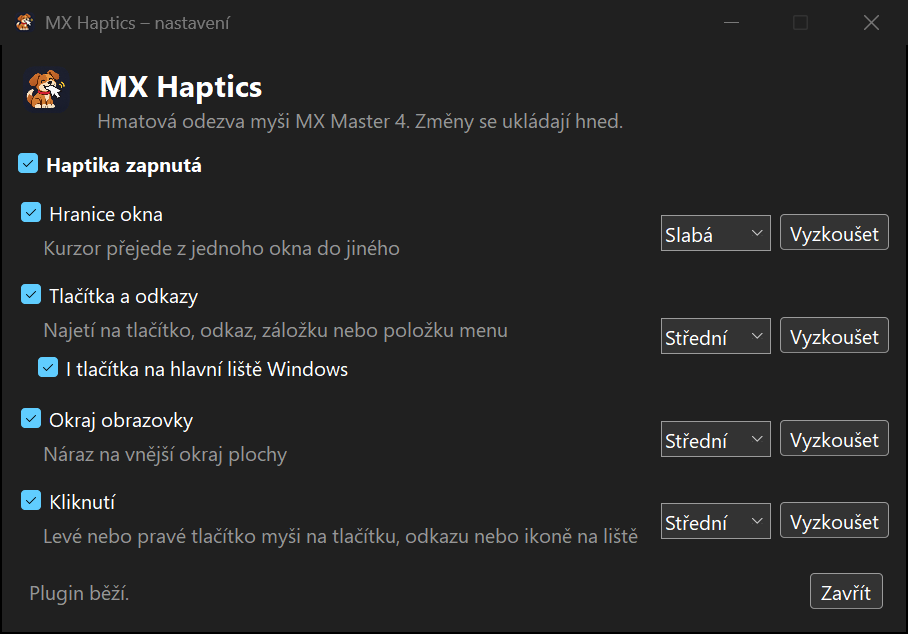
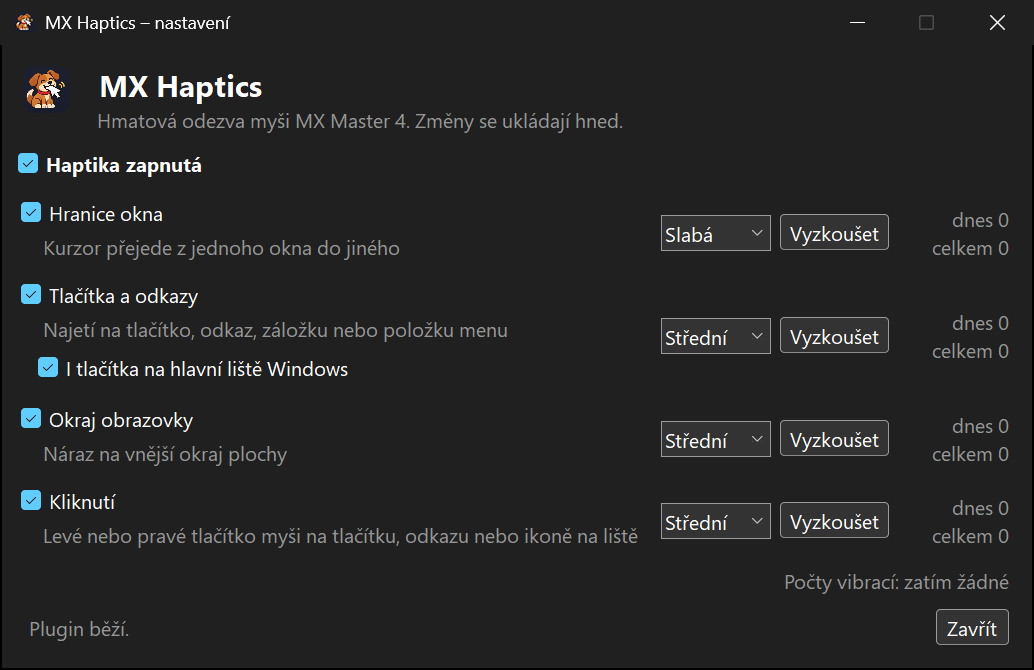
Statistika: počty vibrací dnes a celkem u každé reakce, verze 0.5.0

diff --git a/settings/SettingsForm.cs b/settings/SettingsForm.cs
@@ -3,7 +3,9 @@ namespace MxHaptics.Settings
     using System;
     using System.Collections.Generic;
     using System.Drawing;
+    using System.Globalization;
     using System.IO;
+    using System.Threading.Tasks;
     using System.Windows.Forms;
 
     using MxHaptics.Shared;
@@ -26,7 +28,10 @@ namespace MxHaptics.Settings
         private readonly CheckBox _taskbarCheck;
         private readonly List<Control> _rowControls = new();
         private readonly Label _status;
+        private readonly Dictionary<String, Label> _countLabels = new();
+        private readonly Label _statsSince;
         private Boolean _loading = true;
+        private Boolean _refreshingStats;
 
         /// <param name="readOnly">Pro screenshoty: výchozí nastavení, nic neukládá ani neposílá pluginu.</param>
         public SettingsForm(Boolean readOnly = false)
@@ -91,7 +96,8 @@ namespace MxHaptics.Settings
             root.Controls.Add(this._masterSwitch);
 
             // --- reakce ---
-            var grid = new TableLayoutPanel { AutoSize = true, ColumnCount = 3, Margin = new Padding(0, 0, 0, 8) };
+            var grid = new TableLayoutPanel { AutoSize = true, ColumnCount = 4, Margin = new Padding(0, 0, 0, 8) };
+            grid.ColumnStyles.Add(new ColumnStyle(SizeType.AutoSize));
             grid.ColumnStyles.Add(new ColumnStyle(SizeType.AutoSize));
             grid.ColumnStyles.Add(new ColumnStyle(SizeType.AutoSize));
             grid.ColumnStyles.Add(new ColumnStyle(SizeType.AutoSize));
@@ -146,12 +152,28 @@ namespace MxHaptics.Settings
                 grid.Controls.Add(cell);
                 grid.Controls.Add(strength);
                 grid.Controls.Add(test);
+
+                var count = new Label
+                {
+                    AutoSize = true,
+                    MinimumSize = new Size(110, 0),
+                    TextAlign = ContentAlignment.TopRight,
+                    ForeColor = SystemColors.GrayText,
+                    Anchor = AnchorStyles.Right,
+                    Margin = new Padding(16, 6, 0, 0),
+                };
+                grid.Controls.Add(count);
+                this._countLabels[reaction] = count;
+
                 this._rowControls.Add(enabled);
                 this._rowControls.Add(strength);
                 this._rowControls.Add(test);
             }
 
             root.Controls.Add(grid);
+
+            this._statsSince = new Label { AutoSize = true, ForeColor = SystemColors.GrayText, Anchor = AnchorStyles.Right, Margin = new Padding(0, 0, 0, 8) };
+            root.Controls.Add(this._statsSince);
 
             // --- patička ---
             var footer = new TableLayoutPanel { AutoSize = true, ColumnCount = 2, Dock = DockStyle.Fill };
@@ -169,6 +191,59 @@ namespace MxHaptics.Settings
             this.UpdateEnabledState();
             this.UpdateStatus(readOnly || PluginClient.Send("reload") != null ? "Plugin běží." : null);
             this._loading = readOnly;
+
+            if (readOnly)
+            {
+                this.ShowStats(new HapticsStats());
+            }
+            else
+            {
+                this.RefreshStats();
+                var timer = new Timer { Interval = 2000 };
+                timer.Tick += (_, _) => this.RefreshStats();
+                timer.Start();
+                this.FormClosed += (_, _) => timer.Dispose();
+            }
+        }
+
+        /// <summary>Počty z běžícího pluginu (aktuální), jinak z uloženého souboru (plugin ukládá jednou za minutu).</summary>
+        private async void RefreshStats()
+        {
+            if (this._refreshingStats)
+            {
+                return;
+            }
+
+            this._refreshingStats = true;
+            try
+            {
+                var stats = await Task.Run(() =>
+                {
+                    var json = PluginClient.Send("stats");
+                    return json != null && json.StartsWith('{') ? HapticsStats.FromJson(json) : HapticsStats.Load();
+                });
+                if (!this.IsDisposed)
+                {
+                    this.ShowStats(stats);
+                }
+            }
+            finally
+            {
+                this._refreshingStats = false;
+            }
+        }
+
+        private void ShowStats(HapticsStats stats)
+        {
+            var today = DateTime.Now;
+            foreach (var (reaction, label) in this._countLabels)
+            {
+                label.Text = $"dnes {stats.DayOf(reaction, today):N0}\ncelkem {stats.TotalOf(reaction):N0}";
+            }
+
+            this._statsSince.Text = DateTime.TryParseExact(stats.Since, "yyyy-MM-dd", CultureInfo.InvariantCulture, DateTimeStyles.None, out var since)
+                ? $"Počty vibrací od {since:d}"
+                : "Počty vibrací: zatím žádné";
         }
 
         private static Image LoadIconImage()

diff --git a/shared/HapticsStats.cs b/shared/HapticsStats.cs
@@ -1,0 +1,92 @@
+namespace MxHaptics.Shared
+{
+    using System;
+    using System.Collections.Generic;
+    using System.IO;
+    using System.Text.Json;
+
+    /// <summary>
+    /// Počty skutečně odeslaných vibrací podle reakce: celkem a po dnech (místní datum).
+    /// Testy z okna nastavení se nepočítají. Uložené v %LOCALAPPDATA%\MxHaptics\stats.json, zapisuje jen plugin.
+    /// Není thread-safe, plugin k ní přistupuje pod zámkem.
+    /// </summary>
+    public sealed class HapticsStats
+    {
+        private static readonly JsonSerializerOptions JsonOptions = new() { PropertyNamingPolicy = JsonNamingPolicy.CamelCase };
+
+        /// <summary>Den prvního záznamu (yyyy-MM-dd).</summary>
+        public String Since { get; set; }
+
+        public Dictionary<String, Int64> Total { get; set; } = new();
+
+        /// <summary>Den (yyyy-MM-dd) → reakce → počet.</summary>
+        public Dictionary<String, Dictionary<String, Int64>> Days { get; set; } = new();
+
+        public static String FilePath => Path.Combine(HapticsSettings.DirectoryPath, "stats.json");
+
+        public static String DayKey(DateTime day) => day.ToString("yyyy-MM-dd", System.Globalization.CultureInfo.InvariantCulture);
+
+        public void Add(String reaction, DateTime now)
+        {
+            var day = DayKey(now);
+            this.Since ??= day;
+            this.Total[reaction] = this.TotalOf(reaction) + 1;
+            if (!this.Days.TryGetValue(day, out var counts))
+            {
+                this.Days[day] = counts = new Dictionary<String, Int64>();
+            }
+
+            counts[reaction] = counts.GetValueOrDefault(reaction) + 1;
+        }
+
+        public Int64 TotalOf(String reaction) => this.Total.GetValueOrDefault(reaction);
+
+        public Int64 DayOf(String reaction, DateTime day) =>
+            this.Days.TryGetValue(DayKey(day), out var counts) ? counts.GetValueOrDefault(reaction) : 0;
+
+        public String ToJson() => JsonSerializer.Serialize(this, JsonOptions);
+
+        /// <summary>Při prázdném nebo poškozeném vstupu vrátí prázdnou statistiku.</summary>
+        public static HapticsStats FromJson(String json)
+        {
+            try
+            {
+                var stats = String.IsNullOrWhiteSpace(json) ? null : JsonSerializer.Deserialize<HapticsStats>(json, JsonOptions);
+                if (stats != null)
+                {
+                    stats.Total ??= new();
+                    stats.Days ??= new();
+                    return stats;
+                }
+            }
+            catch (JsonException ex)
+            {
+                System.Diagnostics.Trace.WriteLine($"MxHaptics: statistika nejde přečíst: {ex.Message}");
+            }
+
+            return new HapticsStats();
+        }
+
+        public static HapticsStats Load()
+        {
+            try
+            {
+                return FromJson(File.Exists(FilePath) ? File.ReadAllText(FilePath) : null);
+            }
+            catch (Exception ex) when (ex is IOException or UnauthorizedAccessException)
+            {
+                System.Diagnostics.Trace.WriteLine($"MxHaptics: statistika nejde načíst: {ex.Message}");
+                return new HapticsStats();
+            }
+        }
+
+        /// <summary>Uloží atomicky (zápis do dočasného souboru a přejmenování).</summary>
+        public void Save()
+        {
+            Directory.CreateDirectory(HapticsSettings.DirectoryPath);
+            var tmp = FilePath + ".tmp";
+            File.WriteAllText(tmp, this.ToJson());
+            File.Move(tmp, FilePath, overwrite: true);
+        }
+    }
+}

diff --git a/src/MxHapticsPlugin.cs b/src/MxHapticsPlugin.cs
@@ -11,6 +11,10 @@ namespace Loupedeck.MxHapticsPlugin
         private PointerWatcher _watcher;
         private ControlPipeServer _pipe;
         private volatile HapticsSettings _settings = new();
+        private readonly Object _statsLock = new();
+        private HapticsStats _stats = new();
+        private Boolean _statsDirty;
+        private System.Threading.Timer _statsTimer;
 
         public override Boolean UsesApplicationApiOnly => true;
 
@@ -27,6 +31,12 @@ namespace Loupedeck.MxHapticsPlugin
         public override void Load()
         {
             this.ReloadSettings();
+            lock (this._statsLock)
+            {
+                this._stats = HapticsStats.Load();
+            }
+
+            this._statsTimer = new System.Threading.Timer(_ => this.SaveStats(), null, 60_000, 60_000);
 
             this._watcher = new PointerWatcher(this.RaiseReaction, () => this._settings.TaskbarButtons);
             this._watcher.Start();
@@ -41,6 +51,9 @@ namespace Loupedeck.MxHapticsPlugin
             this._pipe = null;
             this._watcher?.Dispose();
             this._watcher = null;
+            this._statsTimer?.Dispose();
+            this._statsTimer = null;
+            this.SaveStats();
         }
 
         public void ReloadSettings() => this._settings = HapticsSettings.Load();
@@ -77,6 +90,39 @@ namespace Loupedeck.MxHapticsPlugin
             if (reactionSettings.Enabled)
             {
                 this.RaiseEvent(Reactions.EventName(reaction, reactionSettings.Strength));
+                lock (this._statsLock)
+                {
+                    this._stats.Add(reaction, DateTime.Now);
+                    this._statsDirty = true;
+                }
+            }
+        }
+
+        private void SaveStats()
+        {
+            String json;
+            lock (this._statsLock)
+            {
+                if (!this._statsDirty)
+                {
+                    return;
+                }
+
+                json = this._stats.ToJson();
+                this._statsDirty = false;
+            }
+
+            try
+            {
+                HapticsStats.FromJson(json).Save();
+            }
+            catch (Exception ex) when (ex is IOException or UnauthorizedAccessException)
+            {
+                Trace.WriteLine($"MxHaptics: statistiku nejde uložit: {ex.Message}");
+                lock (this._statsLock)
+                {
+                    this._statsDirty = true;
+                }
             }
         }
 
@@ -92,7 +138,7 @@ namespace Loupedeck.MxHapticsPlugin
             }
         }
 
-        /// <summary>Příkazy z okna nastavení: <c>reload</c>, <c>test &lt;reakce&gt; &lt;síla&gt;</c>.</summary>
+        /// <summary>Příkazy z okna nastavení: <c>reload</c>, <c>stats</c>, <c>test &lt;reakce&gt; &lt;síla&gt;</c>.</summary>
         private String HandleCommand(String line)
         {
             var parts = line.Split(' ', StringSplitOptions.RemoveEmptyEntries);
@@ -100,6 +146,14 @@ namespace Loupedeck.MxHapticsPlugin
             {
                 this.ReloadSettings();
                 return "ok";
+            }
+
+            if (parts.Length == 1 && parts[0] == "stats")
+            {
+                lock (this._statsLock)
+                {
+                    return this._stats.ToJson();
+                }
             }
 
             if (parts.Length == 3 && parts[0] == "test"

diff --git a/AGENTS.md b/AGENTS.md
@@ -10,7 +10,8 @@ Logi Plugin Service. Nastavení má samostatné WinForms okno (`settings/`), iko
 | --- | --- |
 | `shared/HapticsSettings.cs` | model nastavení (JSON v `%LOCALAPPDATA%\MxHaptics\settings.json`), názvy reakcí a událostí; sdílí ho plugin i okno |
 | `src/MxHapticsPlugin.cs` | třída `Plugin`: start/stop sledování, načtení nastavení, výběr události podle síly, příkazy z roury |
-| `src/ControlPipeServer.cs` | pojmenovaná roura `MxHaptics` (`CurrentUserOnly`), příkazy `reload` a `test <reakce> <síla>` |
+| `shared/HapticsStats.cs` | počty odeslaných vibrací (celkem a po dnech) v `%LOCALAPPDATA%\MxHaptics\stats.json`; zapisuje jen plugin |
+| `src/ControlPipeServer.cs` | pojmenovaná roura `MxHaptics` (`CurrentUserOnly`), příkazy `reload`, `stats` a `test <reakce> <síla>` |
 | `src/MxHapticsApplication.cs` | prázdná `ClientApplication`. Loader ji vyžaduje, bez ní plugin skončí na „Cannot load plugin“ |
 | `src/PointerWatcher.cs` | detekce: vlákno oken a okrajů (10 ms), STA vlákno hit-testu tlačítek (30 ms) |
 | `src/TaskbarButtons.cs` | tlačítka hlavní lišty Win 11 přes UI Automation (COM, jen prefixy vtable), cache obdélníků na 1 s |
@@ -50,6 +51,8 @@ Logi Plugin Service. Nastavení má samostatné WinForms okno (`settings/`), iko
 - Hlavní lišta: MSAA ani UIA `ElementFromPoint` do XAML lišty nevidí, proto `FindAll` tlačítek + vlastní hit-test. UIA vrací fyzické
   pixely, porovnávej s `GetPhysicalCursorPos`. Rozhraní v `TaskbarButtons.cs` jsou prefixy vtable z `UIAutomationClient.h`, pořadí nepřehazuj.
 - Lišta jde vypnout volbou `taskbarButtons` v JSON (výchozí `true`, v okně pod řádkem „Tlačítka a odkazy“). Plugin ji čte při každém vzorku přes delegát z `MxHapticsPlugin`.
+- Statistika: počítá se v `RaiseReaction` až po kontrole vypínačů (test z okna ne), pod `_statsLock`. Plugin ukládá `stats.json`
+  jednou za minutu a v `Unload`; okno čte přes `stats` z roury (na pozadí, `Task.Run`), jinak ze souboru. Okno do souboru nepíše.
 - Kliknutí (`click`) hlásí vlákno oken (10 ms, hrana stisku L/P tlačítka), ale jen když `_hoverKey` (píše vlákno prvků) není null.
   Vlákno oken tím dál nevolá MSAA ani UIA, jen čte volatile pole.
 - Ikonu dodává uživatel. Nekresli vlastní ani ji neupravuj. `Icon256x256.png` je zmenšenina `design/icon-source.png` na 256 × 256 (bikubicky).

diff --git a/README.md b/README.md
@@ -60,6 +60,8 @@ V okně můžeš:
 - zvolit sílu reakce: slabá (`subtle_collision`), střední (`damp_collision`), silná (`sharp_collision`),
 - tlačítkem *Vyzkoušet* si vibraci hned ohmatat (funguje i u vypnuté reakce).
 
+Vpravo u každé reakce je počet vibrací dnes a celkem (*Vyzkoušet* se nepočítá). Okno ho obnovuje každé 2 s.
+
 Změny se ukládají hned do `%LOCALAPPDATA%\MxHaptics\settings.json` a plugin je načte bez restartu.
 
 Okno se řídí světlým nebo tmavým režimem Windows. Když plugin neběží, napíše to oranžově ve spodní liště
@@ -120,7 +122,9 @@ gh release create v<verze> ./MxHaptics_<verze>.lplug4 --title "MX Haptics <verze
 - Kliknutí: vlákno oken každých 10 ms čte stav levého a pravého tlačítka. Při stisku vibruje, pokud vlákno prvků naposledy
   našlo pod kurzorem klikatelný prvek. Vibrace přijde až po fyzickém cvaknutí (cesta přes Logi Plugin Service do myši).
 - Okno nastavení posílá pluginu příkazy přes lokální pojmenovanou rouru `MxHaptics` (jen pro aktuálního uživatele):
-  `reload` po uložení a `test <reakce> <síla>` pro tlačítko *Vyzkoušet*.
+  `reload` po uložení, `test <reakce> <síla>` pro tlačítko *Vyzkoušet* a `stats` pro počty vibrací.
+- Počty vibrací drží plugin v paměti a jednou za minutu (a při ukončení) je ukládá do `%LOCALAPPDATA%\MxHaptics\stats.json`
+  (celkem a po dnech). Když plugin neběží, okno čte tento soubor.
 - Aplikace, které neposkytují accessibility (některé hry, část Electron aplikací), na tlačítkách vibrovat nebudou.
 
 ## Ikona
